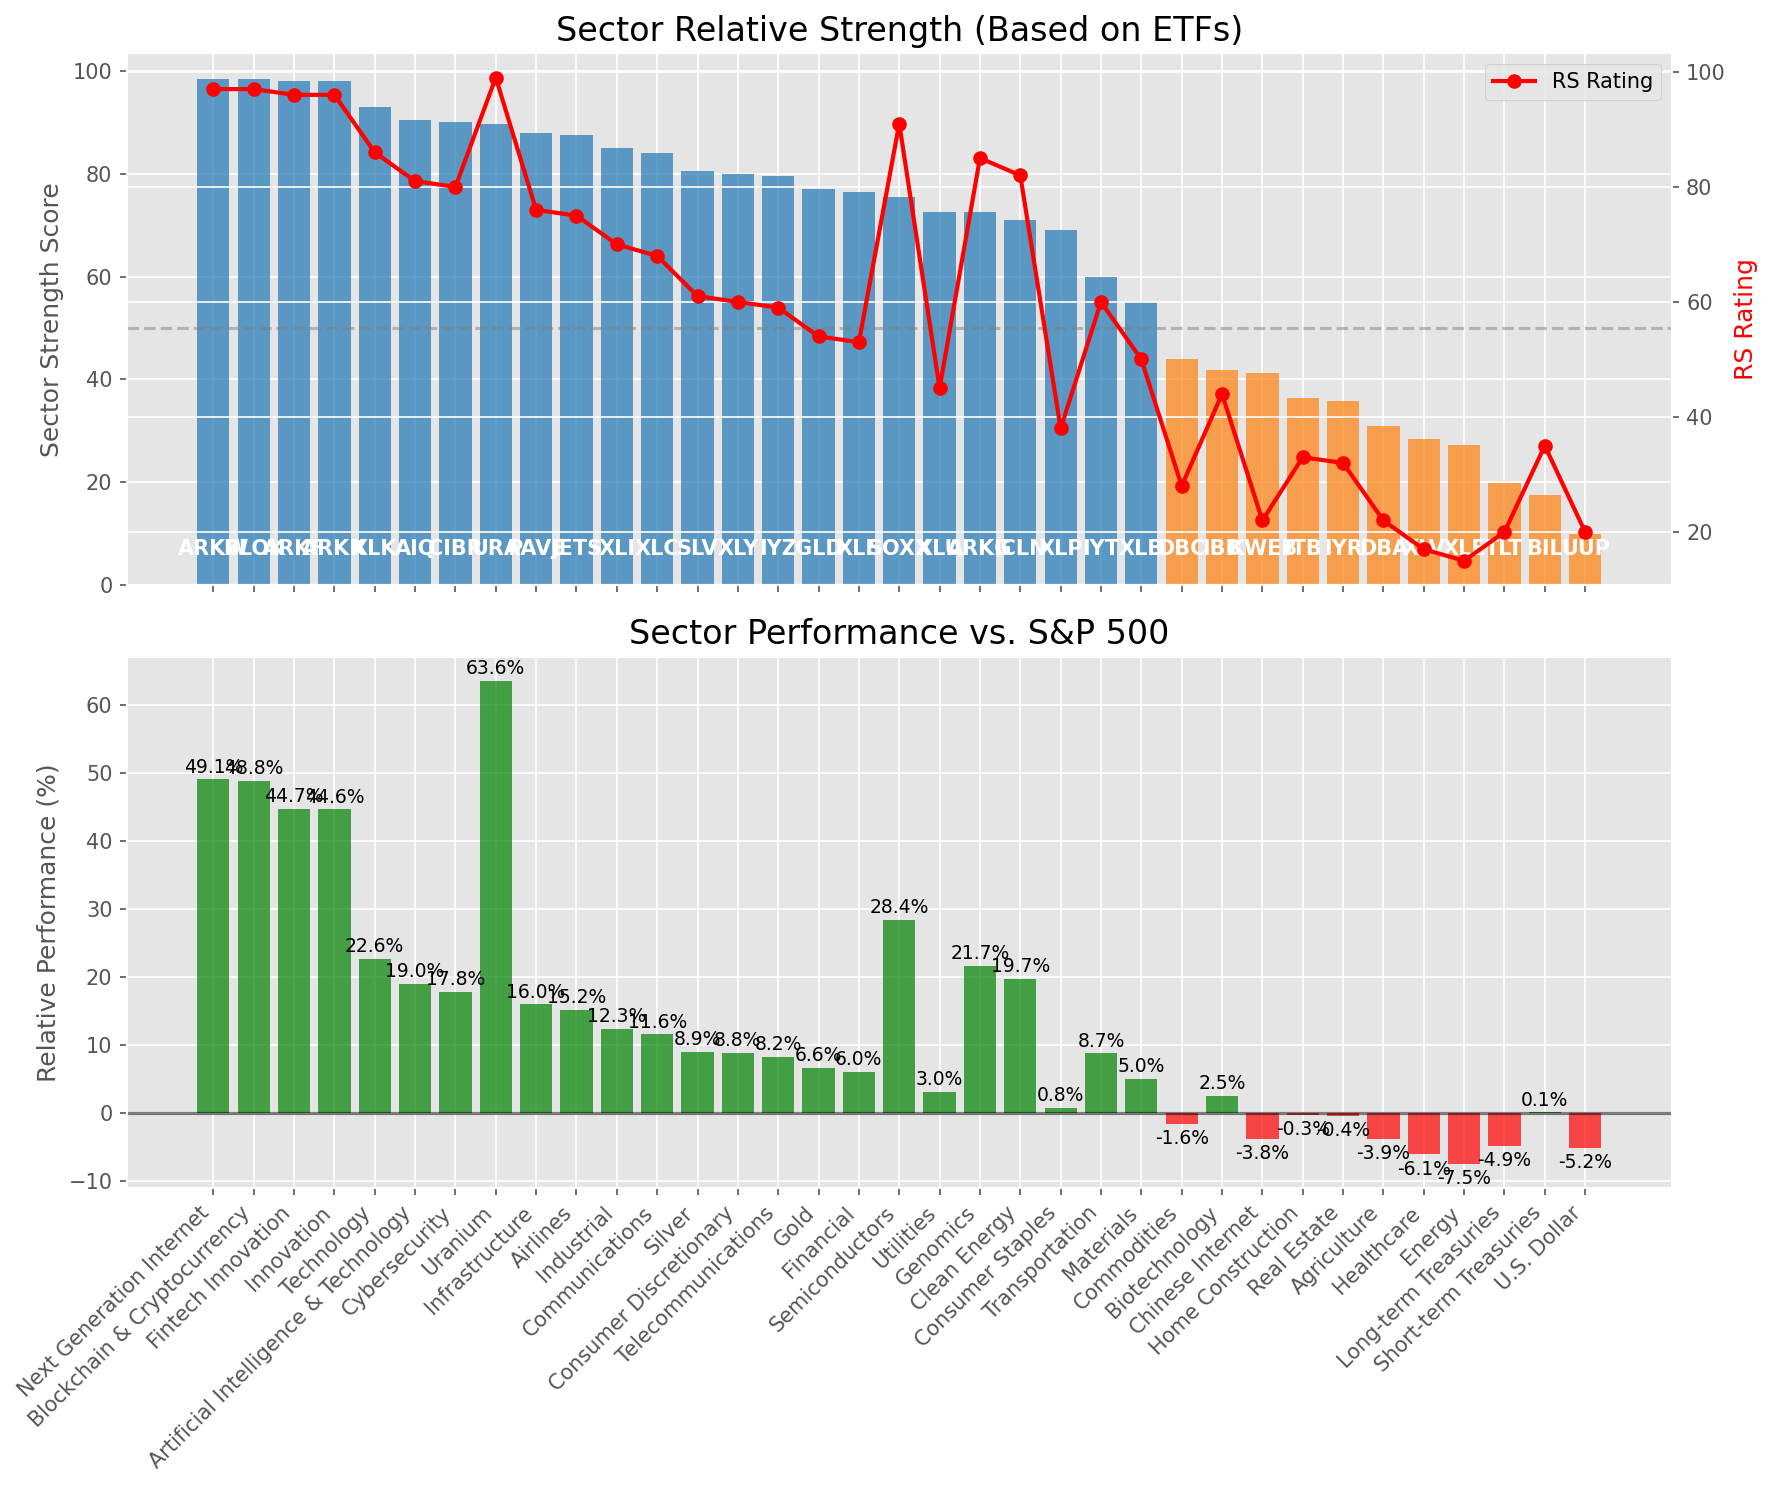
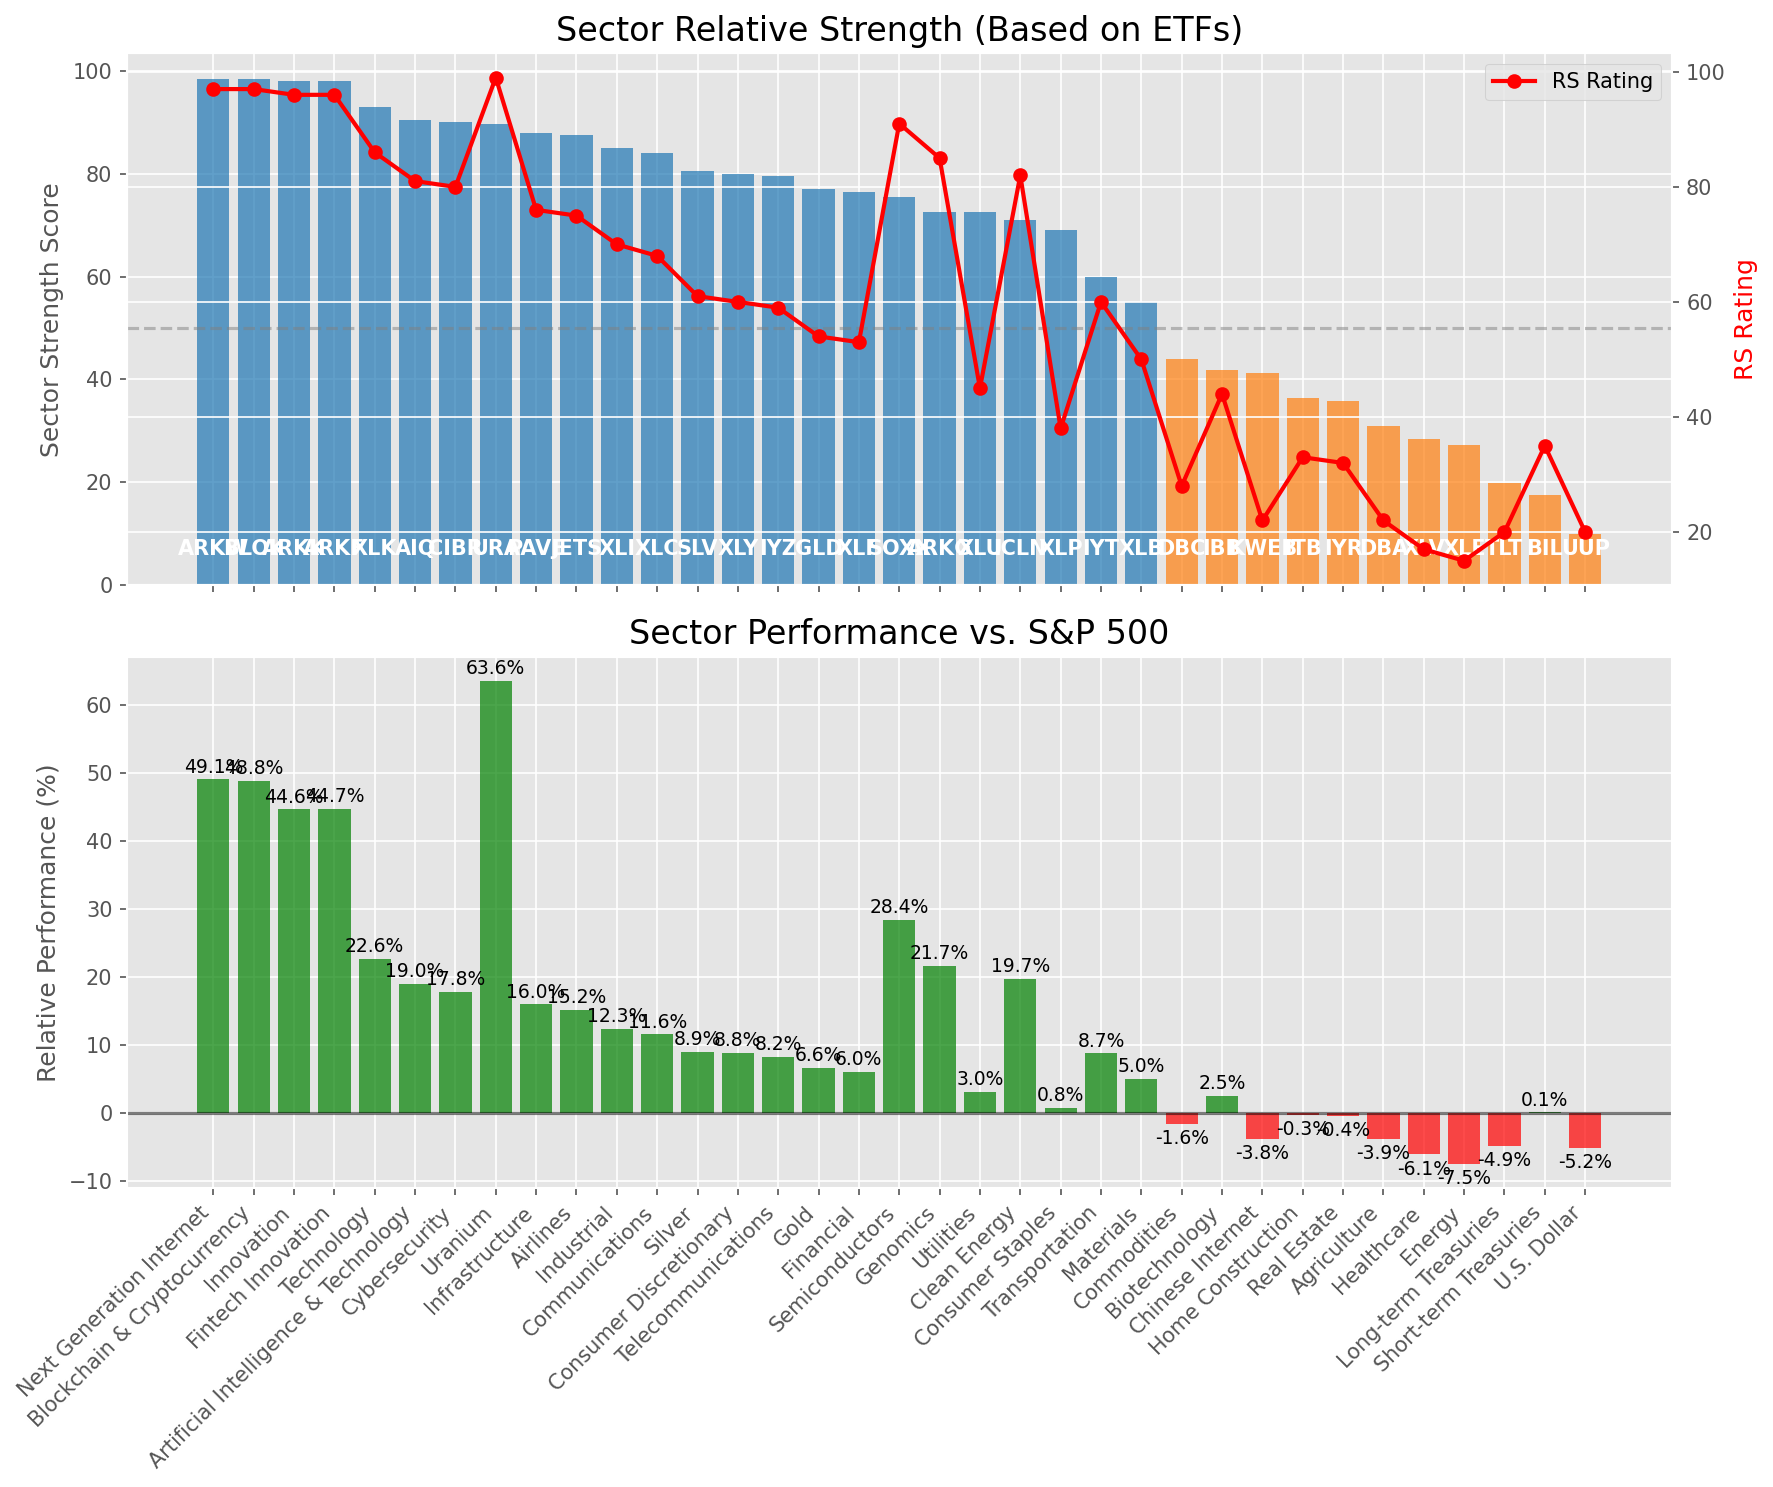
Add market report for 2025-07-05

diff --git a/oneil_relative_strength_report_2025-07-05.md b/oneil_relative_strength_report_2025-07-05.md
@@ -51,8 +51,8 @@ Based on William O'Neil's Relative Strength Methodology
 |-----|----------|-----------|-------------|--------------|-------|--------|
 | [ARKW](https://www.tradingview.com/chart/?symbol=ARKW) | 98.5 | 97.0 | 49.06% | 10d ✓, 50d ✓, 200d ✓ | ↗ | Next Generation Internet |
 | [BLOK](https://www.tradingview.com/chart/?symbol=BLOK) | 98.5 | 97.0 | 48.82% | 10d ✓, 50d ✓, 200d ✓ | ↗ | Blockchain & Cryptocurrency |
-| [ARKF](https://www.tradingview.com/chart/?symbol=ARKF) | 98.0 | 96.0 | 44.72% | 10d ✓, 50d ✓, 200d ✓ | ↗ | Fintech Innovation |
 | [ARKK](https://www.tradingview.com/chart/?symbol=ARKK) | 98.0 | 96.0 | 44.64% | 10d ✓, 50d ✓, 200d ✓ | ↗ | Innovation |
+| [ARKF](https://www.tradingview.com/chart/?symbol=ARKF) | 98.0 | 96.0 | 44.72% | 10d ✓, 50d ✓, 200d ✓ | ↗ | Fintech Innovation |
 | [XLK](https://www.tradingview.com/chart/?symbol=XLK) | 93.0 | 86.0 | 22.64% | 10d ✓, 50d ✓, 200d ✓ | ↗ | Technology |
 | [AIQ](https://www.tradingview.com/chart/?symbol=AIQ) | 90.5 | 81.0 | 18.95% | 10d ✓, 50d ✓, 200d ✓ | ↗ | Artificial Intelligence & Technology |
 | [CIBR](https://www.tradingview.com/chart/?symbol=CIBR) | 90.0 | 80.0 | 17.81% | 10d ✓, 50d ✓, 200d ✓ | ↗ | Cybersecurity |
@@ -67,8 +67,8 @@ Based on William O'Neil's Relative Strength Methodology
 | [GLD](https://www.tradingview.com/chart/?symbol=GLD) | 77.0 | 54.0 | 6.59% | 10d ✓, 50d ✓, 200d ✓ | ↗ | Gold |
 | [XLF](https://www.tradingview.com/chart/?symbol=XLF) | 76.5 | 53.0 | 6.04% | 10d ✓, 50d ✓, 200d ✓ | ↗ | Financial |
 | [SOXX](https://www.tradingview.com/chart/?symbol=SOXX) | 75.5 | 91.0 | 28.43% | 10d ✓, 50d ✓, 200d ✓ | ↘ | Semiconductors |
-| [XLU](https://www.tradingview.com/chart/?symbol=XLU) | 72.5 | 45.0 | 3.05% | 10d ✓, 50d ✓, 200d ✓ | ↗ | Utilities |
 | [ARKG](https://www.tradingview.com/chart/?symbol=ARKG) | 72.5 | 85.0 | 21.66% | 10d ✓, 50d ✓, 200d ✓ | ↘ | Genomics |
+| [XLU](https://www.tradingview.com/chart/?symbol=XLU) | 72.5 | 45.0 | 3.05% | 10d ✓, 50d ✓, 200d ✓ | ↗ | Utilities |
 | [ICLN](https://www.tradingview.com/chart/?symbol=ICLN) | 71.0 | 82.0 | 19.74% | 10d ✓, 50d ✓, 200d ✓ | ↘ | Clean Energy |
 | [XLP](https://www.tradingview.com/chart/?symbol=XLP) | 69.0 | 38.0 | 0.77% | 10d ✓, 50d ✓, 200d ✓ | ↗ | Consumer Staples |
 | [IYT](https://www.tradingview.com/chart/?symbol=IYT) | 60.0 | 60.0 | 8.74% | 10d ✓, 50d ✓, 200d ✓ | ↘ | Transportation |
@@ -98,7 +98,7 @@ This table shows the relative strength metrics for different market sectors base
 
 ### **Current Sector Leadership**
 
-The current market leadership is coming from the following sectors: **Next Generation Internet, Blockchain & Cryptocurrency, Fintech Innovation**.
+The current market leadership is coming from the following sectors: **Next Generation Internet, Blockchain & Cryptocurrency, Innovation**.
 
 The **Next Generation Internet** sector (represented by **ARKW**) is showing particularly strong relative strength with an RS rating of 97.0 and performance of 49.06% vs. the S&P 500. This sector is trading above its 10-day, 50-day, 200-day moving average(s). Investors should consider focusing on high RS stocks within these leading sectors for potential outperformance.
 
@@ -111,53 +111,53 @@ The following 76 stocks show exceptional relative strength:
 | RS Rating | Buy Score | Current Price | Chart | Name | Ticker |
 |-----------|-----------|---------------|-------|------|--------|
 | 100 | 100 | $159.26 | [Chart](https://www.tradingview.com/chart/?symbol=CLS) | Celestica, Inc. | CLS |
-| 100 | 100 | $182.16 | [Chart](https://www.tradingview.com/chart/?symbol=SEZL) | Sezzle Inc. Common Stock | SEZL |
-| 100 | 100 | $94.40 | [Chart](https://www.tradingview.com/chart/?symbol=HOOD) | Robinhood Markets, Inc. Class A Common Stock | HOOD |
-| 100 | 100 | $281.79 | [Chart](https://www.tradingview.com/chart/?symbol=DAVE) | Dave Inc. Class A Common Stock | DAVE |
 | 100 | 100 | $149.20 | [Chart](https://www.tradingview.com/chart/?symbol=LMB) | Limbach Holdings, Inc Common Stock | LMB |
+| 100 | 100 | $94.40 | [Chart](https://www.tradingview.com/chart/?symbol=HOOD) | Robinhood Markets, Inc. Class A Common Stock | HOOD |
+| 100 | 100 | $182.16 | [Chart](https://www.tradingview.com/chart/?symbol=SEZL) | Sezzle Inc. Common Stock | SEZL |
+| 100 | 100 | $281.79 | [Chart](https://www.tradingview.com/chart/?symbol=DAVE) | Dave Inc. Class A Common Stock | DAVE |
+| 99 | 100 | $43.92 | [Chart](https://www.tradingview.com/chart/?symbol=FARO) | Faro Technologies Inc | FARO |
+| 99 | 100 | $103.59 | [Chart](https://www.tradingview.com/chart/?symbol=RBLX) | Roblox Corporation | RBLX |
 | 99 | 100 | $226.01 | [Chart](https://www.tradingview.com/chart/?symbol=JBL) | Jabil Inc. | JBL |
 | 99 | 100 | $191.27 | [Chart](https://www.tradingview.com/chart/?symbol=NET) | Cloudflare, Inc. Class A common stock, par value $0.001 per share | NET |
-| 99 | 100 | $103.59 | [Chart](https://www.tradingview.com/chart/?symbol=RBLX) | Roblox Corporation | RBLX |
-| 99 | 100 | $43.92 | [Chart](https://www.tradingview.com/chart/?symbol=FARO) | Faro Technologies Inc | FARO |
-| 98 | 100 | $348.33 | [Chart](https://www.tradingview.com/chart/?symbol=CVNA) | Carvana Co. | CVNA |
-| 98 | 100 | $334.48 | [Chart](https://www.tradingview.com/chart/?symbol=RCL) | Royal Caribbean Group | RCL |
 | 98 | 100 | $75.96 | [Chart](https://www.tradingview.com/chart/?symbol=ODD) | ODDITY Tech Ltd. Class A Ordinary Shares | ODD |
 | 98 | 100 | $158.39 | [Chart](https://www.tradingview.com/chart/?symbol=NRG) | NRG Energy, Inc. | NRG |
 | 98 | 100 | $314.77 | [Chart](https://www.tradingview.com/chart/?symbol=ZS) | Zscaler, Inc. Common Stock | ZS |
+| 98 | 100 | $348.33 | [Chart](https://www.tradingview.com/chart/?symbol=CVNA) | Carvana Co. | CVNA |
 | 98 | 100 | $517.04 | [Chart](https://www.tradingview.com/chart/?symbol=GEV) | GE Vernova Inc. | GEV |
+| 98 | 100 | $334.48 | [Chart](https://www.tradingview.com/chart/?symbol=RCL) | Royal Caribbean Group | RCL |
 | 97 | 100 | $279.58 | [Chart](https://www.tradingview.com/chart/?symbol=CRS) | Carpenter Technology Corp | CRS |
 | 96 | 100 | $44.66 | [Chart](https://www.tradingview.com/chart/?symbol=KTOS) | Kratos Defense & Security Solutions, Inc. | KTOS |
 | 96 | 100 | $50.16 | [Chart](https://www.tradingview.com/chart/?symbol=ARKF) | ARK Fintech Innovation ETF | ARKF |
-| 96 | 100 | $89.08 | [Chart](https://www.tradingview.com/chart/?symbol=RBRK) | Rubrik, Inc. | RBRK |
 | 96 | 100 | $795.48 | [Chart](https://www.tradingview.com/chart/?symbol=AXON) | Axon Enterprise, Inc. Common Stock | AXON |
-| 95 | 100 | $1297.18 | [Chart](https://www.tradingview.com/chart/?symbol=NFLX) | NetFlix Inc | NFLX |
-| 95 | 100 | $21.63 | [Chart](https://www.tradingview.com/chart/?symbol=MAG) | MAG Silver Corp. | MAG |
-| 95 | 100 | $514.10 | [Chart](https://www.tradingview.com/chart/?symbol=CRWD) | CrowdStrike Holdings, Inc. Class A Common Stock | CRWD |
+| 96 | 100 | $89.08 | [Chart](https://www.tradingview.com/chart/?symbol=RBRK) | Rubrik, Inc. | RBRK |
 | 95 | 100 | $34.33 | [Chart](https://www.tradingview.com/chart/?symbol=APG) | APi Group Corporation | APG |
-| 94 | 100 | $181.06 | [Chart](https://www.tradingview.com/chart/?symbol=HWM) | Howmet Aerospace Inc. | HWM |
+| 95 | 100 | $21.63 | [Chart](https://www.tradingview.com/chart/?symbol=MAG) | MAG Silver Corp. | MAG |
+| 95 | 100 | $1297.18 | [Chart](https://www.tradingview.com/chart/?symbol=NFLX) | NetFlix Inc | NFLX |
+| 95 | 100 | $514.10 | [Chart](https://www.tradingview.com/chart/?symbol=CRWD) | CrowdStrike Holdings, Inc. Class A Common Stock | CRWD |
 | 94 | 100 | $46.41 | [Chart](https://www.tradingview.com/chart/?symbol=DRS) | Leonardo DRS, Inc. Common Stock | DRS |
+| 94 | 100 | $181.06 | [Chart](https://www.tradingview.com/chart/?symbol=HWM) | Howmet Aerospace Inc. | HWM |
 | 94 | 100 | $38.87 | [Chart](https://www.tradingview.com/chart/?symbol=AS) | Amer Sports, Inc. | AS |
 | 93 | 100 | $52.89 | [Chart](https://www.tradingview.com/chart/?symbol=BBW) | Build-A-Bear Workshop, Inc. | BBW |
 | 93 | 100 | $73.57 | [Chart](https://www.tradingview.com/chart/?symbol=URBN) | Urban Outfitters Inc | URBN |
 | 93 | 100 | $252.34 | [Chart](https://www.tradingview.com/chart/?symbol=WWD) | Woodward, Inc. | WWD |
 | 93 | 100 | $57.98 | [Chart](https://www.tradingview.com/chart/?symbol=IBKR) | Interactive Brokers Group, Inc. Class A Common Stock | IBKR |
-| 92 | 100 | $43.41 | [Chart](https://www.tradingview.com/chart/?symbol=KD) | Kyndryl Holdings, Inc. | KD |
 | 92 | 100 | $102.34 | [Chart](https://www.tradingview.com/chart/?symbol=SANM) | Sanmina  Corp | SANM |
+| 92 | 100 | $43.41 | [Chart](https://www.tradingview.com/chart/?symbol=KD) | Kyndryl Holdings, Inc. | KD |
 | 92 | 100 | $50.13 | [Chart](https://www.tradingview.com/chart/?symbol=INOD) | Innodata Inc. | INOD |
+| 91 | 100 | $403.99 | [Chart](https://www.tradingview.com/chart/?symbol=MSTR) | MicroStrategy Inc | MSTR |
 | 91 | 100 | $106.71 | [Chart](https://www.tradingview.com/chart/?symbol=JCI) | Johnson Controls International plc | JCI |
 | 91 | 100 | $17.82 | [Chart](https://www.tradingview.com/chart/?symbol=DAN) | Dana Incorporated | DAN |
-| 91 | 100 | $403.99 | [Chart](https://www.tradingview.com/chart/?symbol=MSTR) | MicroStrategy Inc | MSTR |
-| 90 | 100 | $25.80 | [Chart](https://www.tradingview.com/chart/?symbol=KAR) | OPENLANE, Inc | KAR |
 | 90 | 100 | $28.23 | [Chart](https://www.tradingview.com/chart/?symbol=SRAD) | Sportradar Group AG Class A Ordinary Shares | SRAD |
-| 90 | 100 | $43.99 | [Chart](https://www.tradingview.com/chart/?symbol=BBIO) | BridgeBio Pharma, Inc. Common Stock | BBIO |
+| 90 | 100 | $25.80 | [Chart](https://www.tradingview.com/chart/?symbol=KAR) | OPENLANE, Inc | KAR |
 | 90 | 100 | $65.70 | [Chart](https://www.tradingview.com/chart/?symbol=CAKE) | Cheesecake Factory (The) | CAKE |
-| 89 | 100 | $30.93 | [Chart](https://www.tradingview.com/chart/?symbol=HODL) | VanEck Bitcoin ETF | HODL |
+| 90 | 100 | $43.99 | [Chart](https://www.tradingview.com/chart/?symbol=BBIO) | BridgeBio Pharma, Inc. Common Stock | BBIO |
 | 89 | 100 | $238.79 | [Chart](https://www.tradingview.com/chart/?symbol=DASH) | DoorDash, Inc. Class A Common Stock | DASH |
+| 89 | 100 | $30.93 | [Chart](https://www.tradingview.com/chart/?symbol=HODL) | VanEck Bitcoin ETF | HODL |
 | 88 | 100 | $59.10 | [Chart](https://www.tradingview.com/chart/?symbol=SHLD) | Global X Defense Tech ETF | SHLD |
 | 87 | 100 | $46.15 | [Chart](https://www.tradingview.com/chart/?symbol=EXEL) | Exelixis Inc | EXEL |
 | 89 | 99 | $62.19 | [Chart](https://www.tradingview.com/chart/?symbol=IBIT) | iShares Bitcoin Trust ETF | IBIT |
-| 88 | 99 | $284.29 | [Chart](https://www.tradingview.com/chart/?symbol=VEEV) | Veeva Systems Inc. | VEEV |
 | 88 | 99 | $132.85 | [Chart](https://www.tradingview.com/chart/?symbol=NTES) | NetEase, inc. | NTES |
+| 88 | 99 | $284.29 | [Chart](https://www.tradingview.com/chart/?symbol=VEEV) | Veeva Systems Inc. | VEEV |
 | 89 | 98 | $65.77 | [Chart](https://www.tradingview.com/chart/?symbol=RYTM) | Rhythm Pharmaceuticals, Inc. Common Stock | RYTM |
 | 85 | 98 | $21.20 | [Chart](https://www.tradingview.com/chart/?symbol=KT) | KT Corp. | KT |
 | 88 | 97 | $49.09 | [Chart](https://www.tradingview.com/chart/?symbol=SIL) | Global X Silver Miners ETF (NEW) | SIL |
@@ -169,21 +169,21 @@ The following 76 stocks show exceptional relative strength:
 | 83 | 96 | $29.65 | [Chart](https://www.tradingview.com/chart/?symbol=CAE) | CAE INC | CAE |
 | 83 | 96 | $37.07 | [Chart](https://www.tradingview.com/chart/?symbol=AHR) | American Healthcare REIT, Inc. | AHR |
 | 85 | 95 | $252.69 | [Chart](https://www.tradingview.com/chart/?symbol=WTS) | Watts Water Technologies, Inc. Class A | WTS |
-| 84 | 95 | $220.91 | [Chart](https://www.tradingview.com/chart/?symbol=COF) | Capital One Financial | COF |
 | 84 | 95 | $186.86 | [Chart](https://www.tradingview.com/chart/?symbol=ITA) | iShares U.S. Aerospace & Defense ETF | ITA |
+| 84 | 95 | $220.91 | [Chart](https://www.tradingview.com/chart/?symbol=COF) | Capital One Financial | COF |
 | 84 | 95 | $77.12 | [Chart](https://www.tradingview.com/chart/?symbol=CTVA) | Corteva, Inc. Common Stock | CTVA |
 | 83 | 95 | $48.38 | [Chart](https://www.tradingview.com/chart/?symbol=BTI) | British American Tobacco p.l.c. American Depositary Shares, American Depositary Shares, each representing one Ordinary Share | BTI |
 | 81 | 95 | $93.81 | [Chart](https://www.tradingview.com/chart/?symbol=SNEX) | StoneX Group Inc. Common Stock | SNEX |
 | 83 | 94 | $296.00 | [Chart](https://www.tradingview.com/chart/?symbol=JPM) | JPMorgan Chase & Co. | JPM |
 | 81 | 94 | $164.93 | [Chart](https://www.tradingview.com/chart/?symbol=CAH) | Cardinal Health, Inc. | CAH |
 | 83 | 93 | $60.14 | [Chart](https://www.tradingview.com/chart/?symbol=NTR) | Nutrien Ltd. Common Shares | NTR |
-| 83 | 93 | $93.10 | [Chart](https://www.tradingview.com/chart/?symbol=SEIC) | SEI Investments Co | SEIC |
 | 83 | 93 | $120.27 | [Chart](https://www.tradingview.com/chart/?symbol=TWLO) | Twilio Inc. | TWLO |
+| 83 | 93 | $93.10 | [Chart](https://www.tradingview.com/chart/?symbol=SEIC) | SEI Investments Co | SEIC |
 | 80 | 93 | $182.77 | [Chart](https://www.tradingview.com/chart/?symbol=EAT) | Brinker International, Inc. | EAT |
 | 82 | 92 | $112.51 | [Chart](https://www.tradingview.com/chart/?symbol=SPMO) | Invesco S&P 500 Momentum ETF | SPMO |
 | 80 | 92 | $75.93 | [Chart](https://www.tradingview.com/chart/?symbol=CIBR) | First Trust Exchange-Traded Fund II First Trust NASDAQ Cybersecurity ETF | CIBR |
-| 81 | 91 | $141.76 | [Chart](https://www.tradingview.com/chart/?symbol=PPA) | Invesco Aerospace & Defense ETF | PPA |
 | 81 | 91 | $269.02 | [Chart](https://www.tradingview.com/chart/?symbol=FDN) | First Trust Dow Jones Internet Index Fund ETF | FDN |
+| 81 | 91 | $141.76 | [Chart](https://www.tradingview.com/chart/?symbol=PPA) | Invesco Aerospace & Defense ETF | PPA |
 | 80 | 91 | $227.25 | [Chart](https://www.tradingview.com/chart/?symbol=BAP) | Credicorp LTD | BAP |
 | 80 | 90 | $29.41 | [Chart](https://www.tradingview.com/chart/?symbol=NTGR) | NETGEAR, Inc. | NTGR |
 
@@ -196,16 +196,16 @@ The following 43 stocks show deteriorating relative strength:
 
 | RS Rating | Sell Score | Current Price | Chart | Name | Ticker |
 |-----------|------------|---------------|-------|------|--------|
-| 1 | 100 | $10.09 | [Chart](https://www.tradingview.com/chart/?symbol=HIBS) | Direxion Daily S&P 500 High Beta Bear 3X Shares | HIBS |
 | 1 | 100 | $25.61 | [Chart](https://www.tradingview.com/chart/?symbol=TECS) | Direxion Daily Technology Bear 3x Shares | TECS |
 | 1 | 100 | $14.25 | [Chart](https://www.tradingview.com/chart/?symbol=NVDS) | Investment Managers Series Trust II Tradr 1.5X Short NVDA Daily ETF | NVDS |
+| 1 | 100 | $10.09 | [Chart](https://www.tradingview.com/chart/?symbol=HIBS) | Direxion Daily S&P 500 High Beta Bear 3X Shares | HIBS |
 | 2 | 100 | $24.93 | [Chart](https://www.tradingview.com/chart/?symbol=QID) | ProShares UltraShort QQQ | QID |
 | 2 | 100 | $12.08 | [Chart](https://www.tradingview.com/chart/?symbol=LBRT) | Liberty Energy Inc. | LBRT |
 | 2 | 100 | $24.92 | [Chart](https://www.tradingview.com/chart/?symbol=CRTO) | Criteo S.A. | CRTO |
 | 2 | 100 | $10.20 | [Chart](https://www.tradingview.com/chart/?symbol=HPK) | HighPeak Energy, Inc. Common Stock | HPK |
 | 2 | 100 | $43.53 | [Chart](https://www.tradingview.com/chart/?symbol=LINE) | Lineage, Inc. Common Stock | LINE |
-| 3 | 100 | $39.52 | [Chart](https://www.tradingview.com/chart/?symbol=SDOW) | ProShares UltraPro Short Dow 30 | SDOW |
 | 3 | 100 | $19.33 | [Chart](https://www.tradingview.com/chart/?symbol=BITI) | ProShares Short Bitcoin ETF | BITI |
+| 3 | 100 | $39.52 | [Chart](https://www.tradingview.com/chart/?symbol=SDOW) | ProShares UltraPro Short Dow 30 | SDOW |
 | 4 | 100 | $35.25 | [Chart](https://www.tradingview.com/chart/?symbol=SARK) | Investment Managers Series Trust II Tradr 1X Short Innovation Daily ETF | SARK |
 | 5 | 100 | $24.78 | [Chart](https://www.tradingview.com/chart/?symbol=ZSL) | ProShares UltraShort Silver | ZSL |
 | 5 | 100 | $80.42 | [Chart](https://www.tradingview.com/chart/?symbol=LNTH) | Lantheus Holdings, Inc | LNTH |
